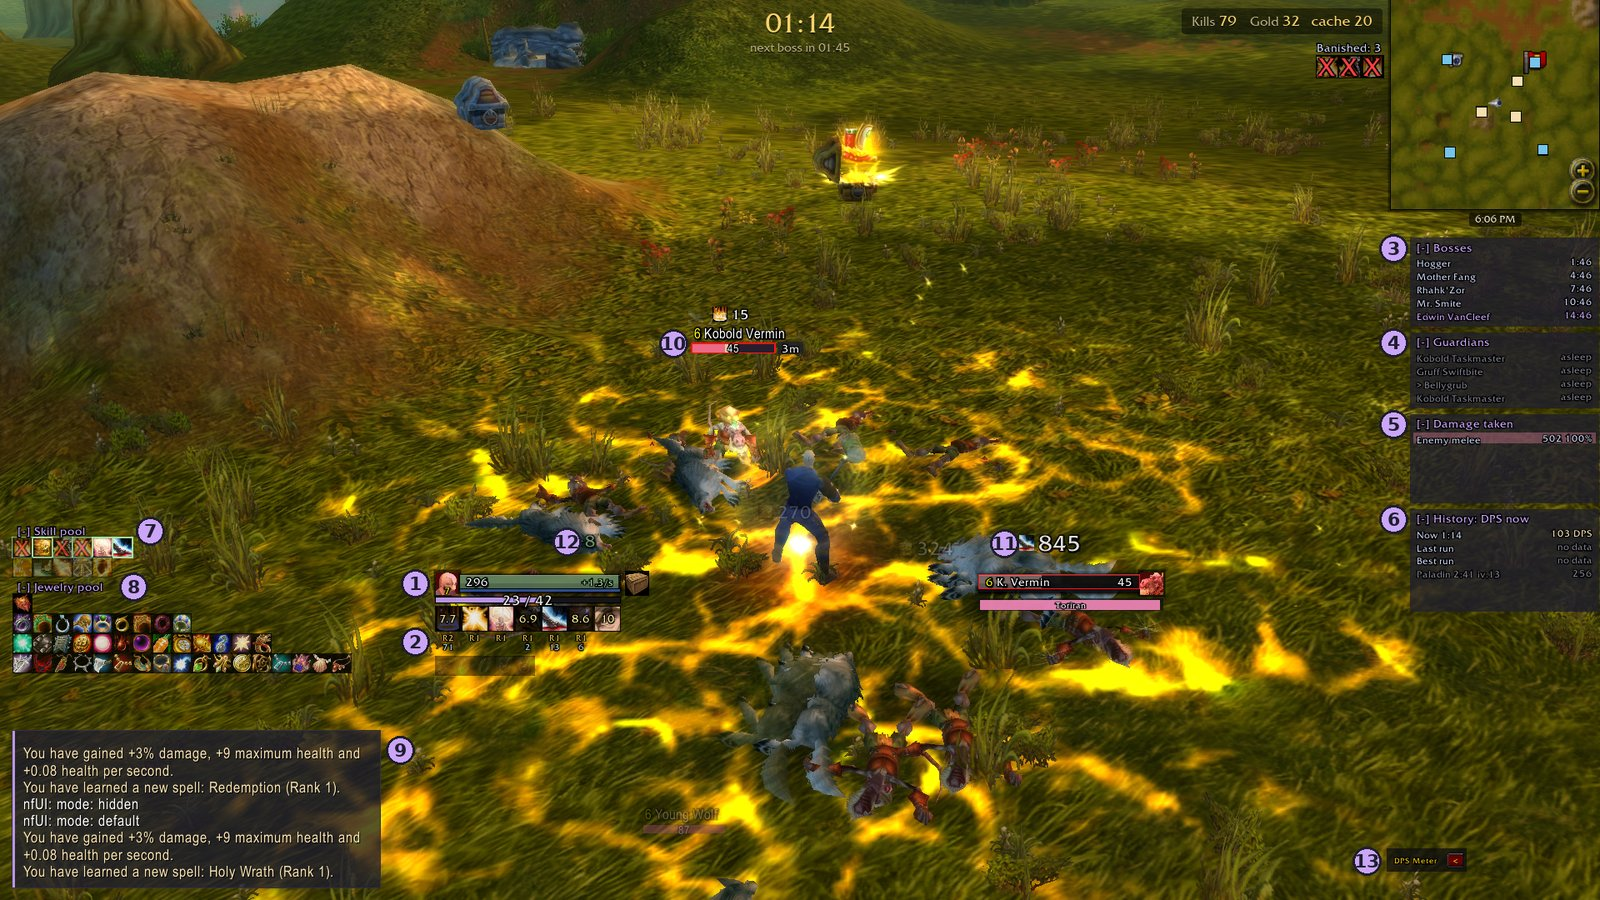
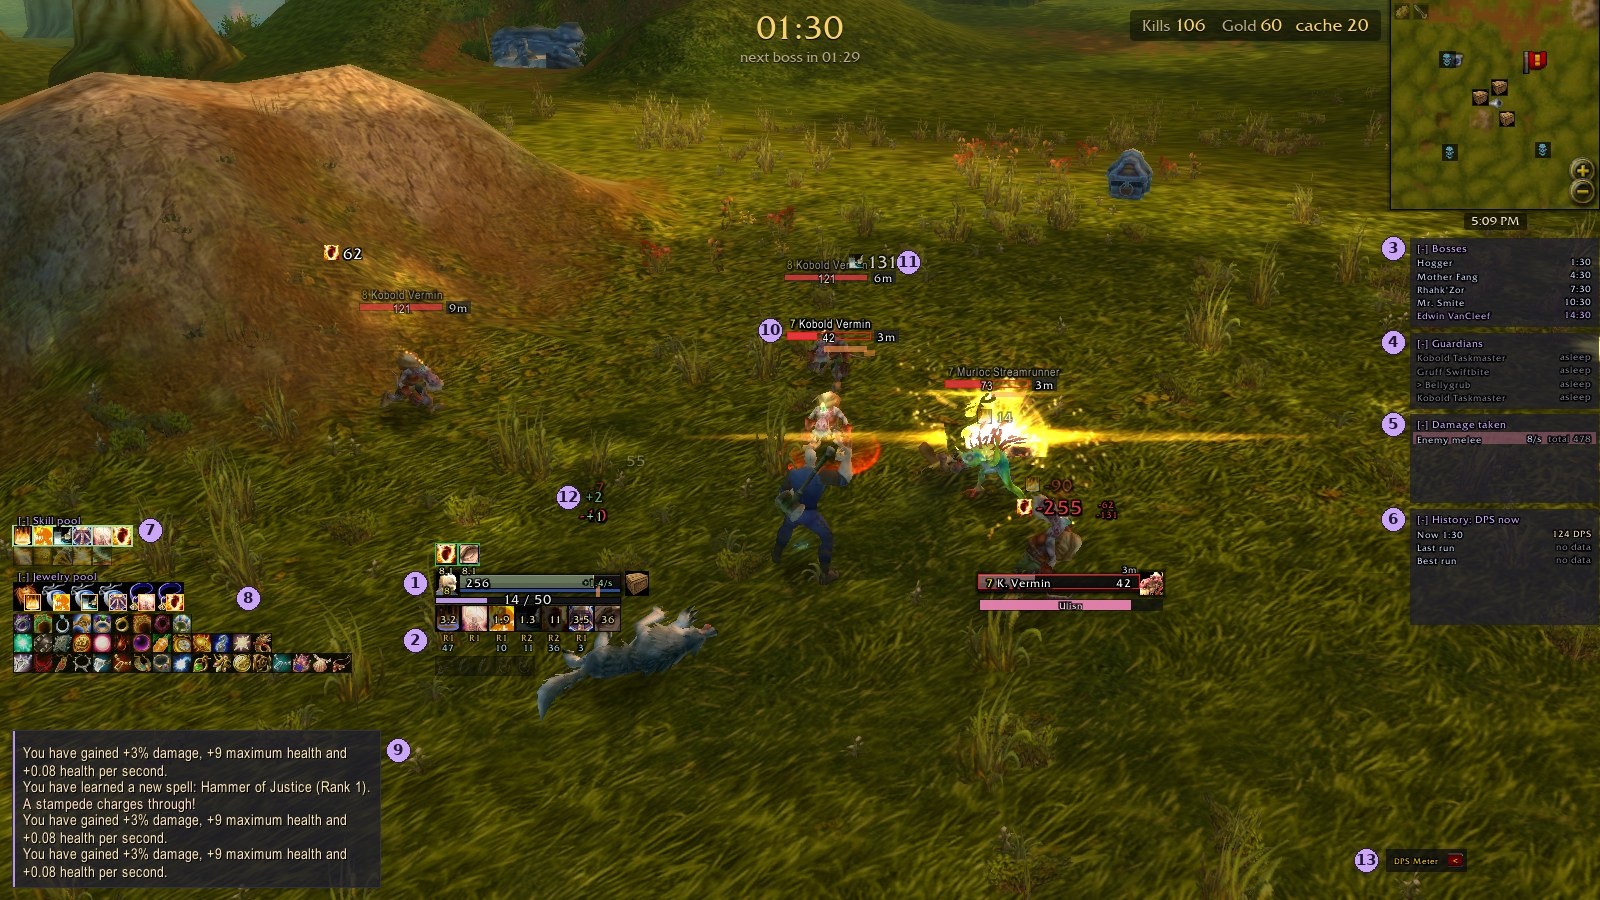
README: a new overview shot and the run analysis
The numbered overview is retaken on 1.3.0 with a clean profile and the
default layout (legendary row, one damage number, the new history); the
run analysis is shown on a real run's picks.

diff --git a/.github/README.ru.md b/.github/README.ru.md
@@ -6,7 +6,7 @@ Windows и браузерная версия · русский и английс
 
 [English](README.md) · [Что нового](../CHANGELOG.md) · [Сообщить об ошибке](../../../issues) · [Описание оригинального nfUI](ORIGINAL-README.md)
 
-![Интерфейс на 3:00 настоящего забега, части пронумерованы](media/overview.jpg)
+![Интерфейс на 1:30 настоящего забега, части пронумерованы](media/overview.jpg)
 
 ## Установка за минуту
 

diff --git a/.github/README.md b/.github/README.md
@@ -6,7 +6,7 @@ Windows and browser versions · English and Russian · free · an unofficial edi
 
 [Русская версия](README.ru.md) · [What's new](../CHANGELOG.md) · [Report a bug](../../../issues) · [Original nfUI readme](ORIGINAL-README.md)
 
-![The HUD at 3:00 of a real run, with numbered parts](media/overview.jpg)
+![The HUD at 1:30 of a real run, with numbered parts](media/overview.jpg)
 
 ## Install in a minute
 
